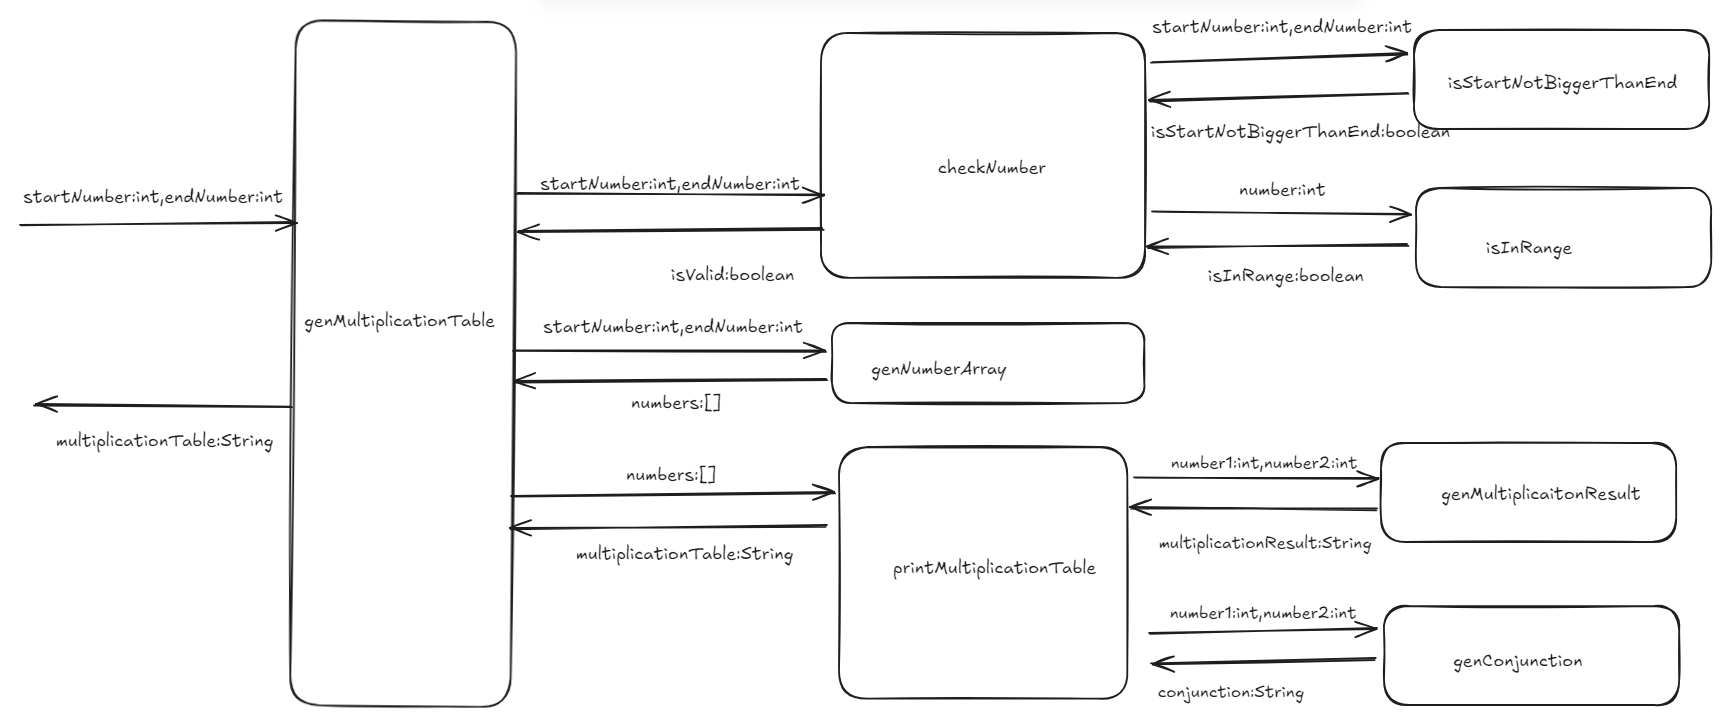
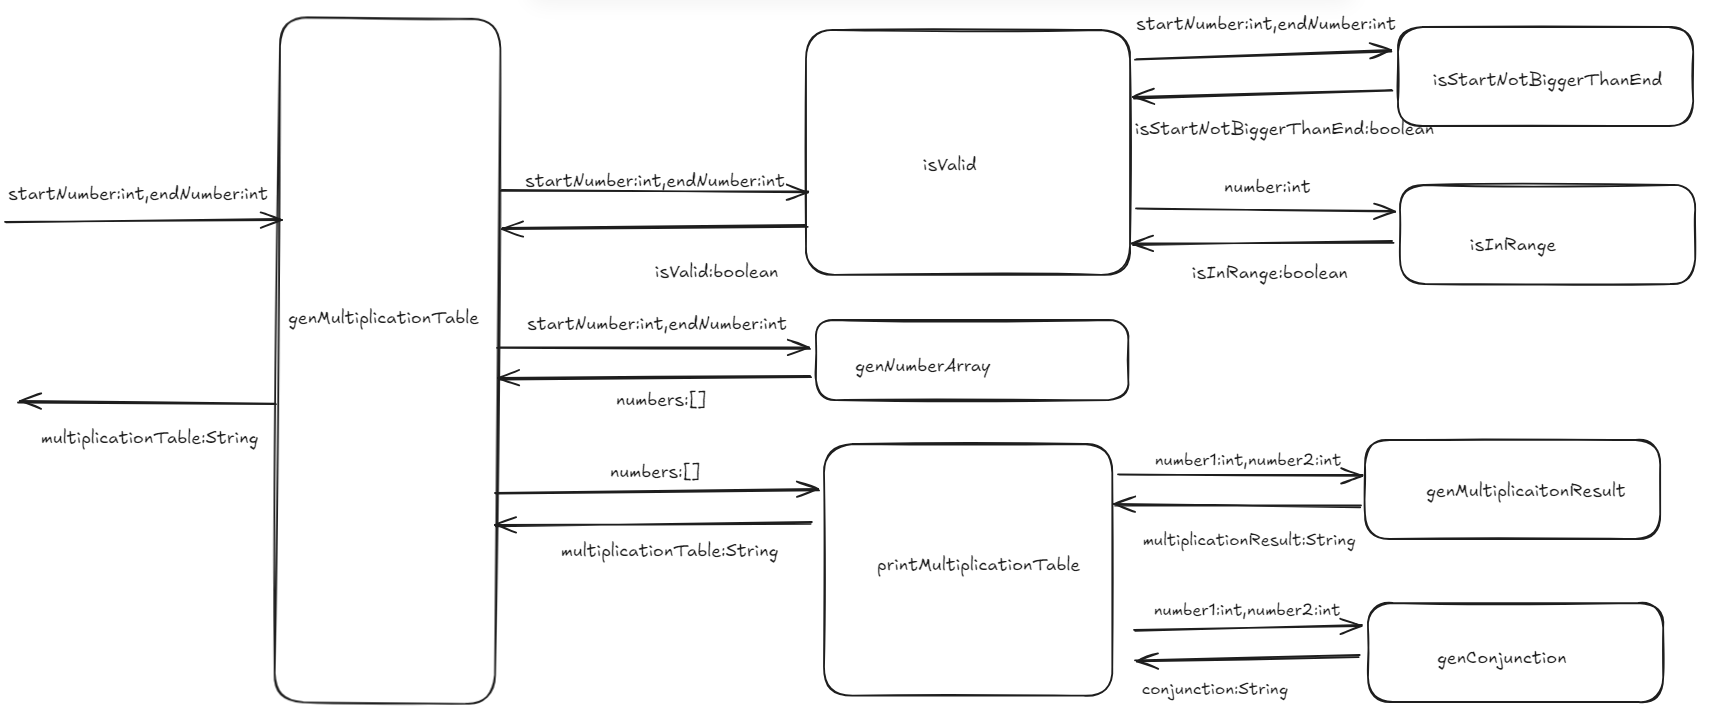
refacor:rename and refactor checkNumber function

diff --git a/src/main/java/com/tw/MultiplicationTableBuilder.java b/src/main/java/com/tw/MultiplicationTableBuilder.java
@@ -16,7 +16,7 @@ public class MultiplicationTableBuilder {
     }
 
     public String genMultiplicationTable(int startNumber,int endNumber) {
-        if(!checkNumber(startNumber,endNumber))
+        if(!isValid(startNumber,endNumber))
             return null;
         int[] numbers = genNumbersArray(startNumber,endNumber);
         return printMultiplicationTable(numbers);
@@ -30,14 +30,8 @@ public class MultiplicationTableBuilder {
         return number >= MIN_NUMBER && number <= MAX_NUMBER;
     }
 
-    public boolean checkNumber(int startNumber,int endNumber){
-        if(!isStartNotBiggerThanEnd(startNumber,endNumber))
-            return false;
-        if (!isInRange(startNumber))
-            return false;
-        if (!isInRange(endNumber))
-            return false;
-        return true;
+    public boolean isValid(int startNumber,int endNumber){
+        return isStartNotBiggerThanEnd(startNumber,endNumber) && isInRange(startNumber) && isInRange(endNumber);
     }
 
     public int[] genNumbersArray(int startNumber,int endNumber){
